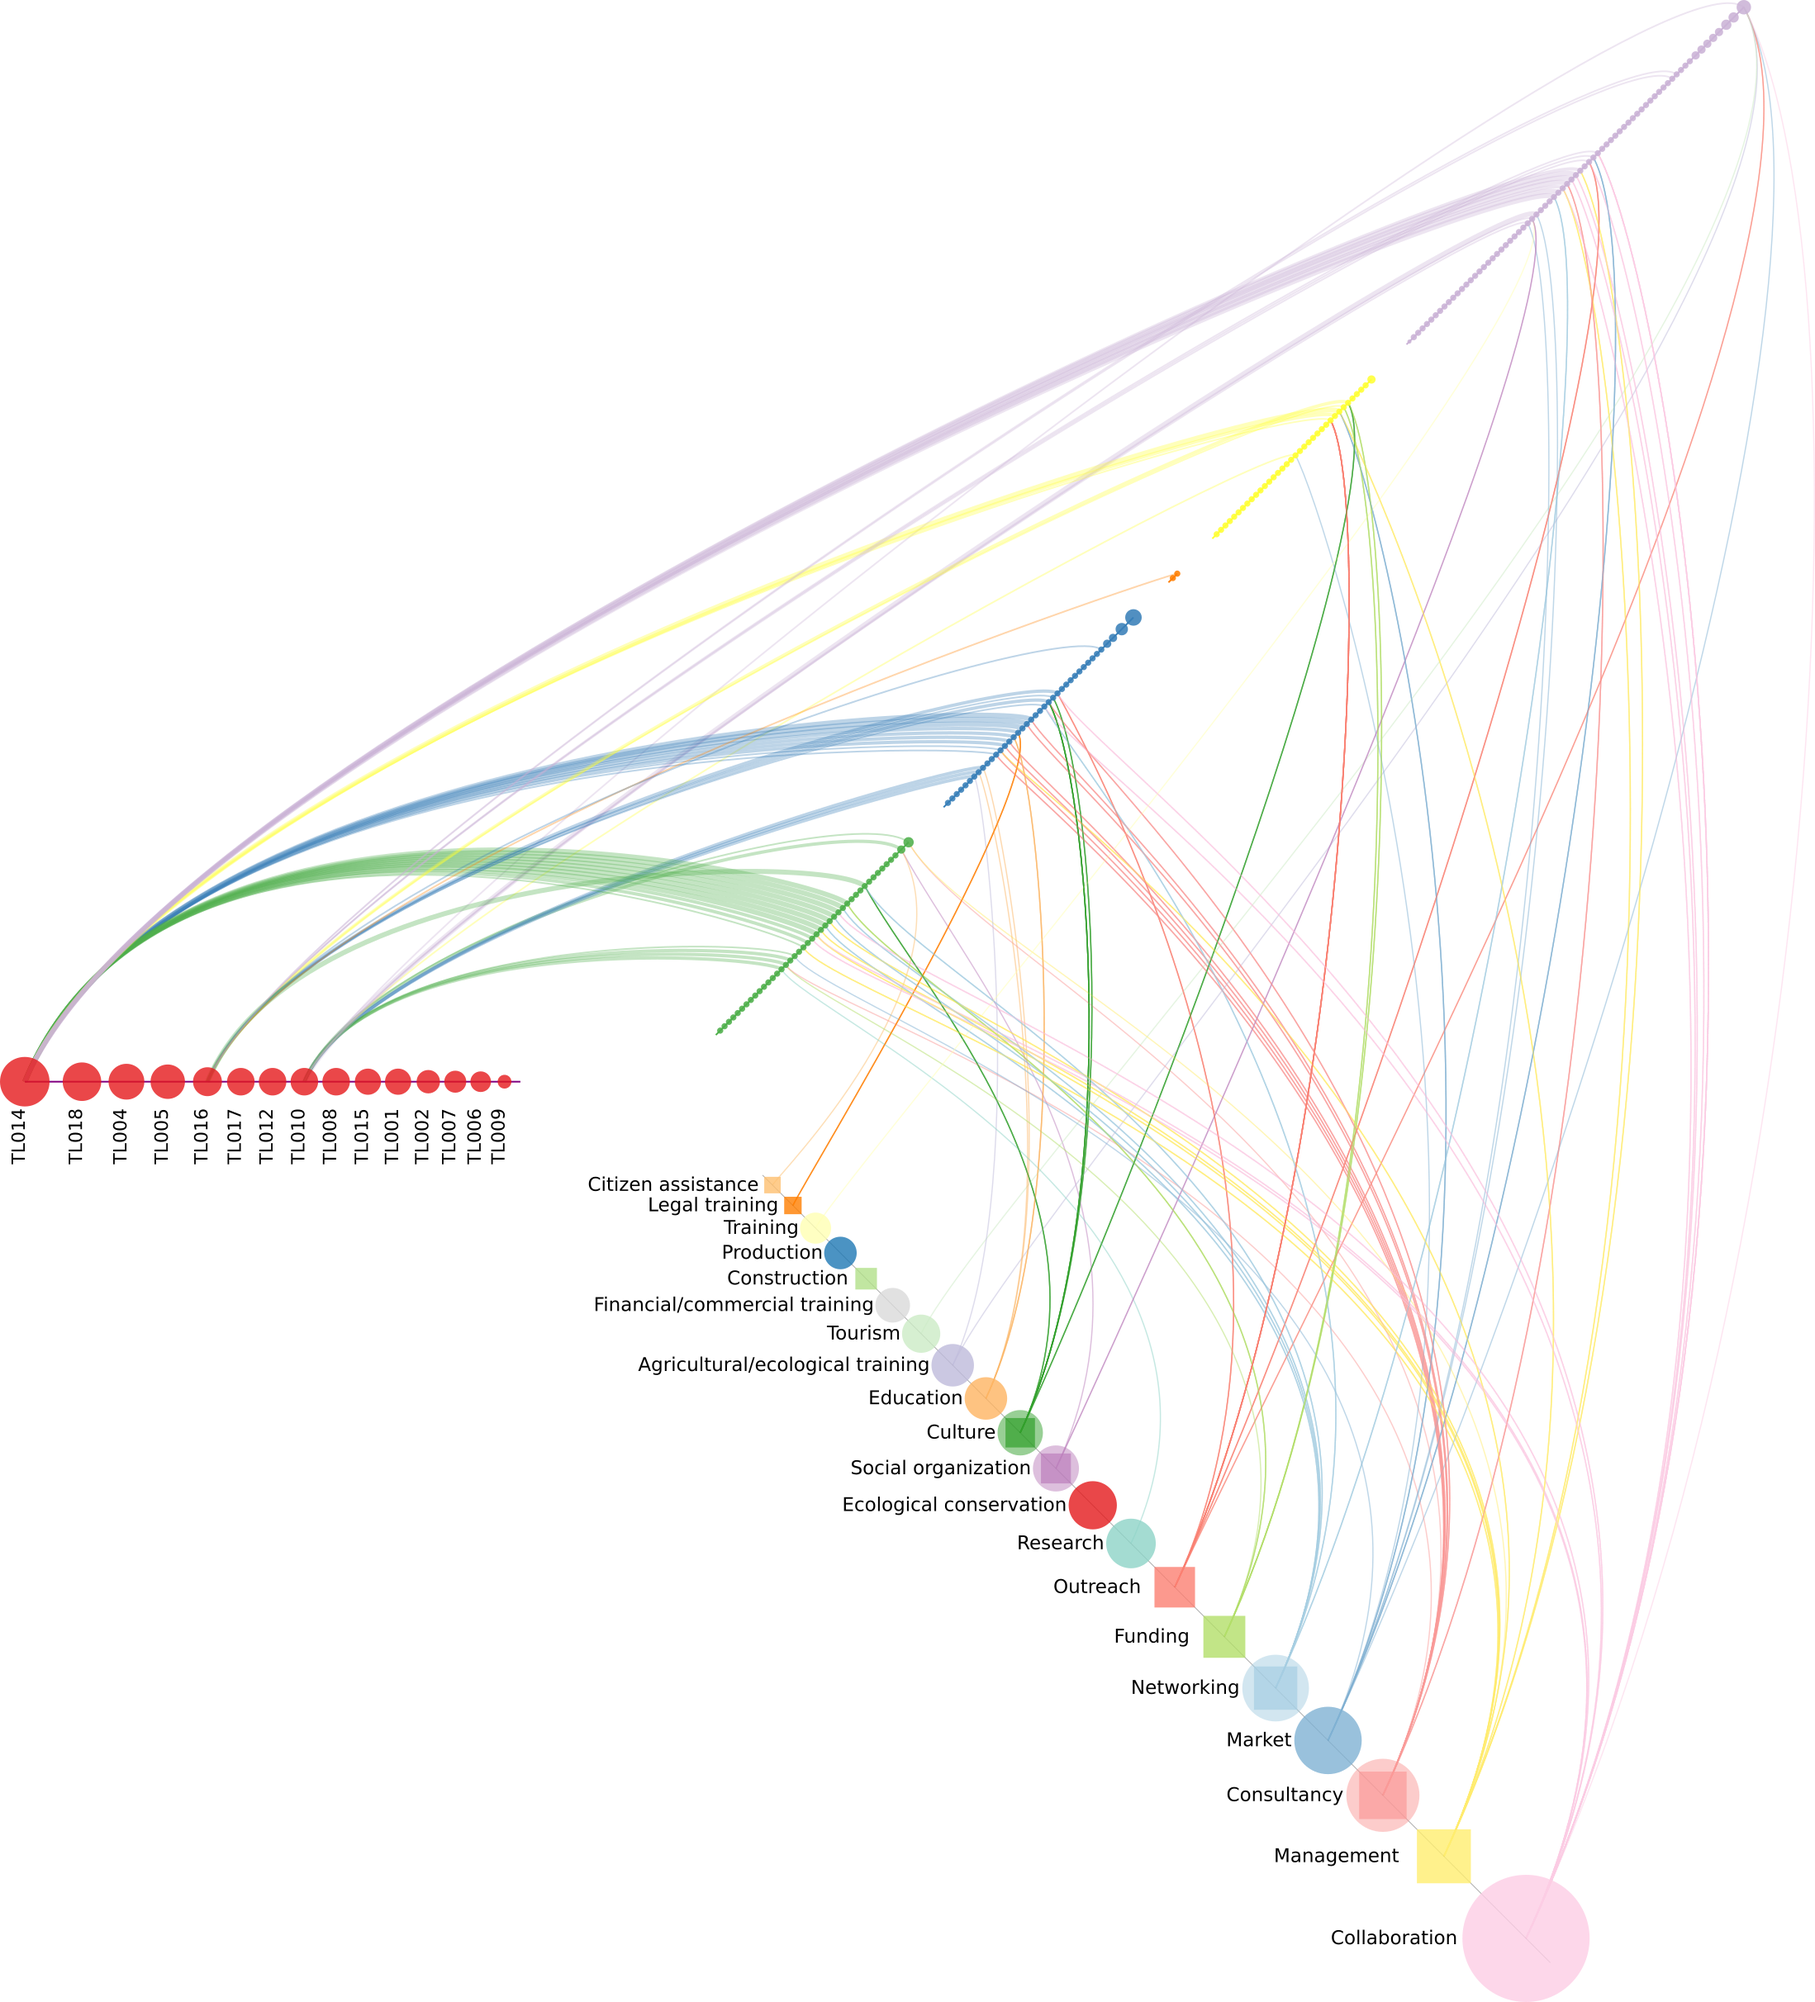
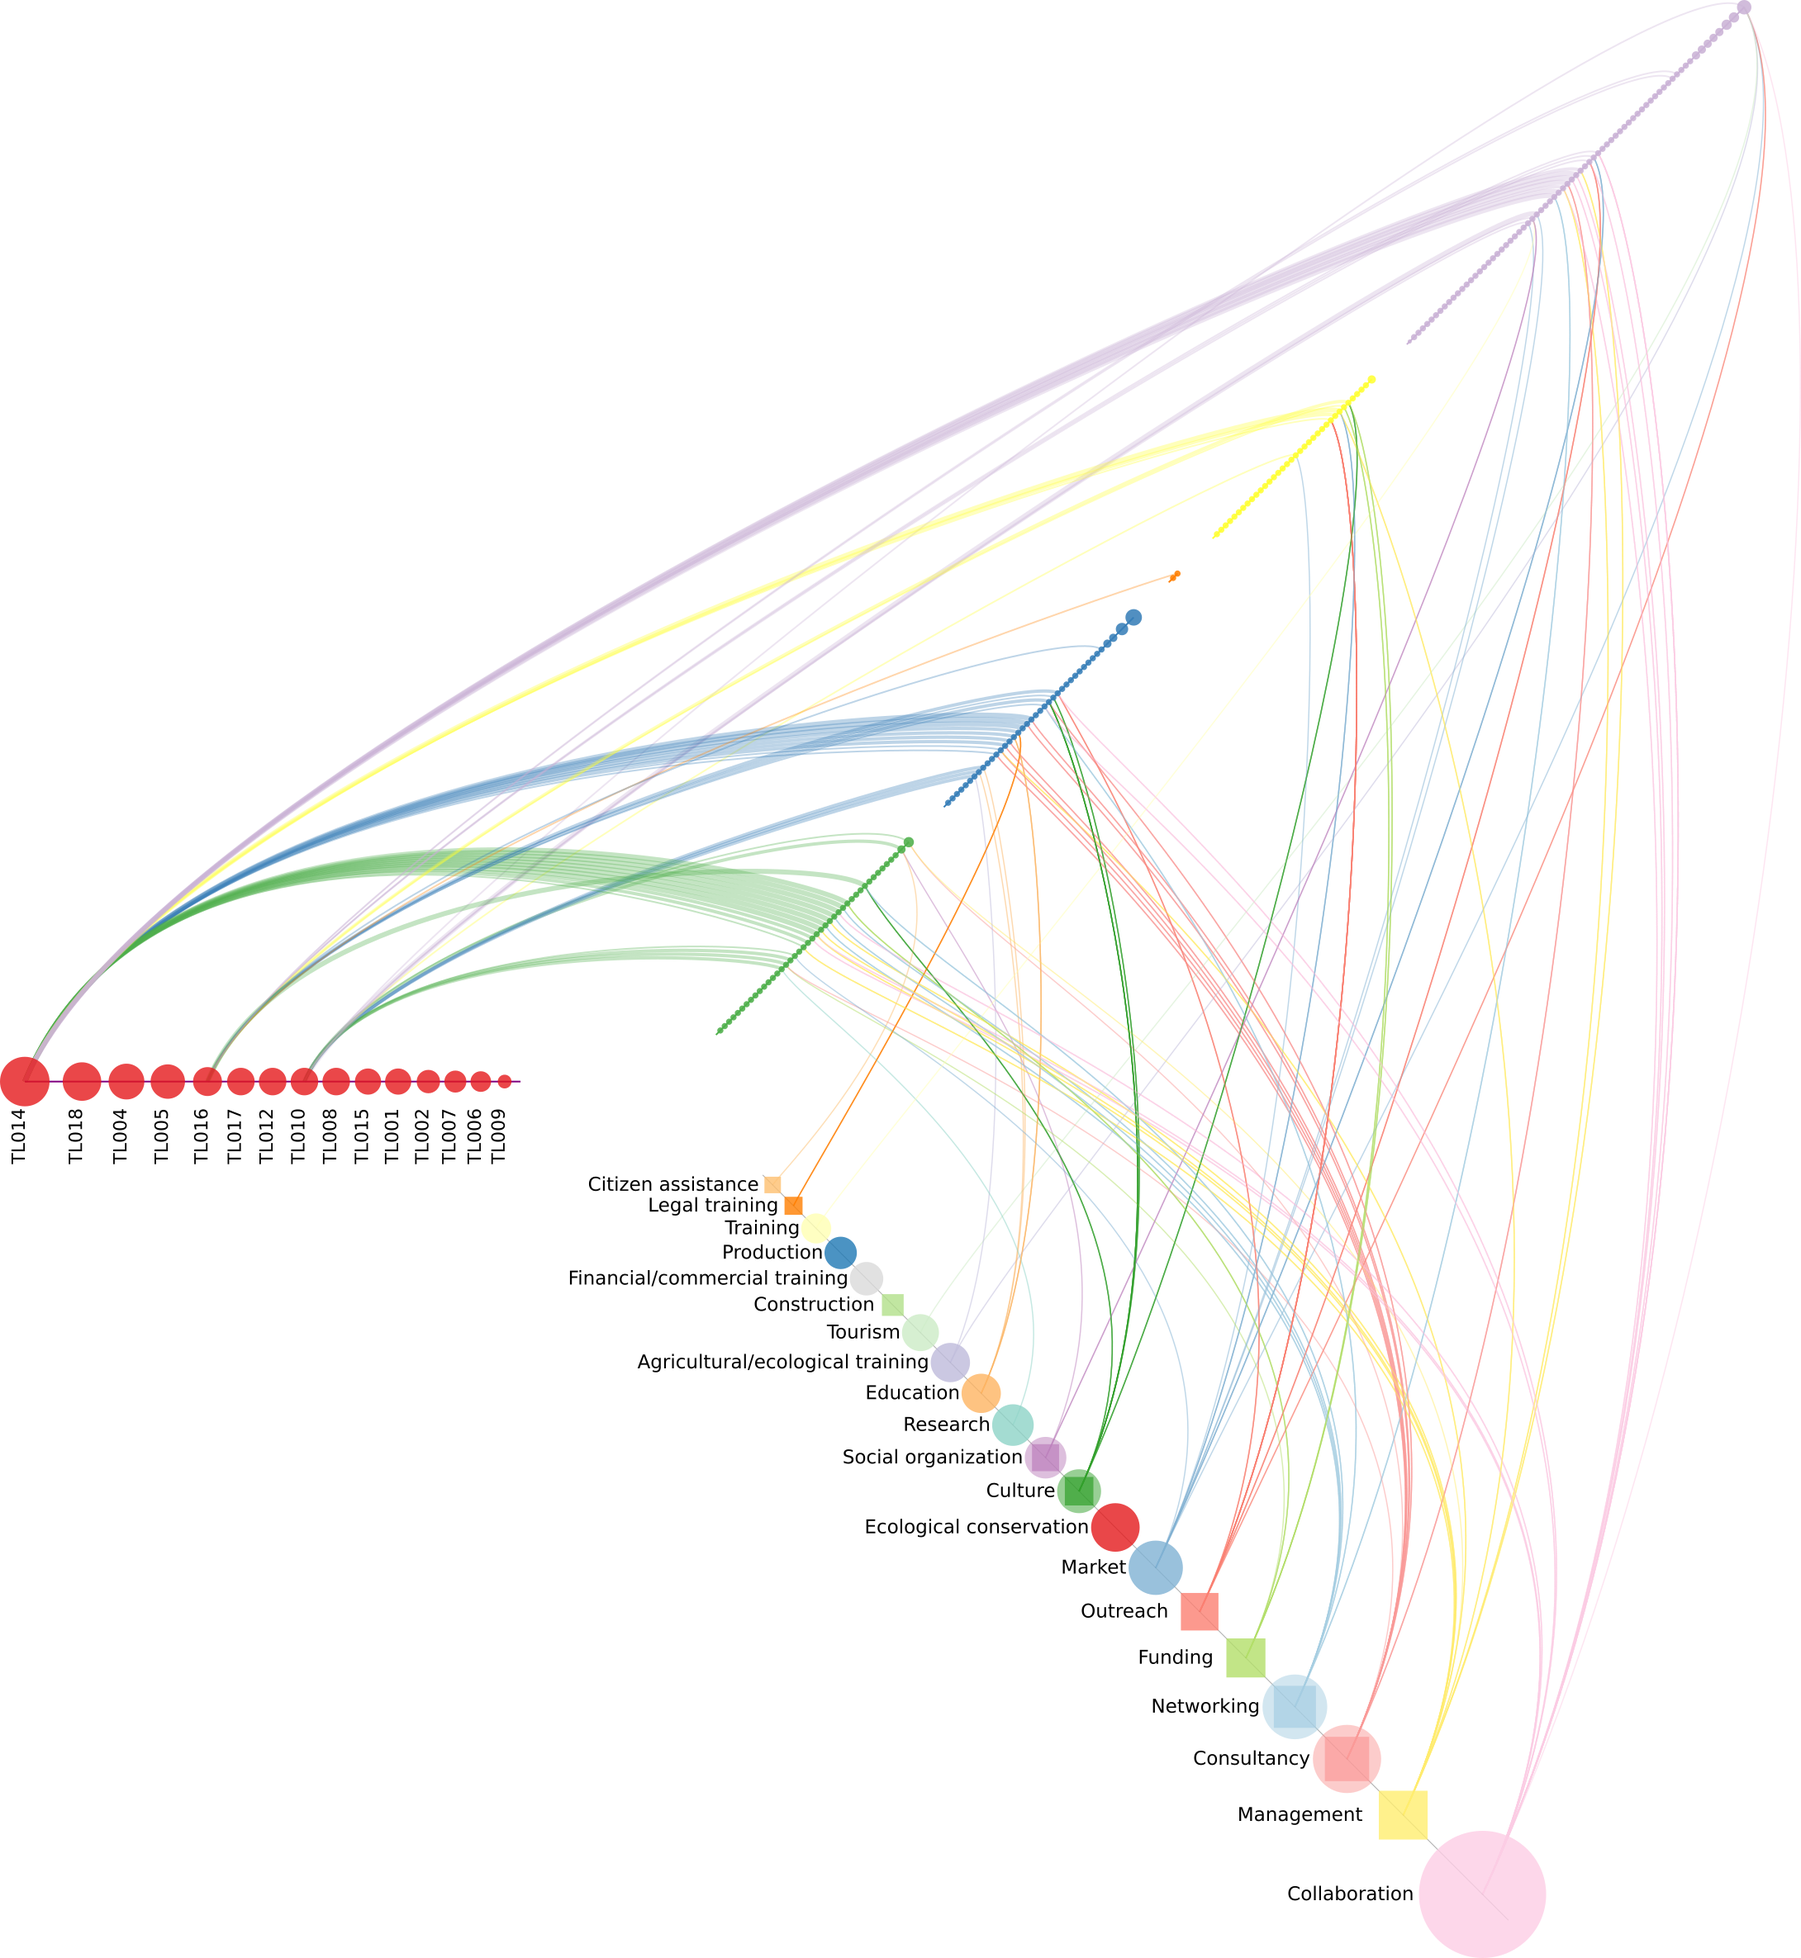
consider phase in graph metrics

diff --git a/fobject/mm/models.py b/fobject/mm/models.py
@@ -159,8 +159,8 @@ class Action(models.Model):
 
     in_degree = models.IntegerField(default=0)
 
-    def update_in_degree(self):
-        self.in_degree = self.actor_set.count()
+    def update_in_degree(self, phase):
+        self.in_degree = self.actor_set.filter(phase=phase).count()
 
     def __unicode__(self):
         return u"%s" % self.action
@@ -211,11 +211,12 @@ class MentalEdge(models.Model):
 
 
 class Networks:
-    def __init__(self):
+    def __init__(self, phase):
 
+        self.phase = phase
         self.alter = nx.Graph()
 
-        for e in EgoEdge.objects.all():
+        for e in EgoEdge.objects.filter(phase=phase):
             self.alter.add_edge(e.source, e.target,
                                 distance=e.distance,
                                 interaction=e.interaction)
@@ -228,7 +229,7 @@ class Networks:
 
     def update_action_metrics(self):
         for a in Action.objects.all():
-            a.update_in_degree()
+            a.update_in_degree(self.phase)
             a.save()
 
 

diff --git a/fobject/hiveplot_actioncats_joined.py b/fobject/hiveplot_actioncats_joined.py
@@ -44,7 +44,7 @@ if args.egos is not None:
 else:
     egos = None
 
-n = Networks()
+n = Networks(phase)
 n.update_alter_metrics()
 n.update_action_metrics()
 
